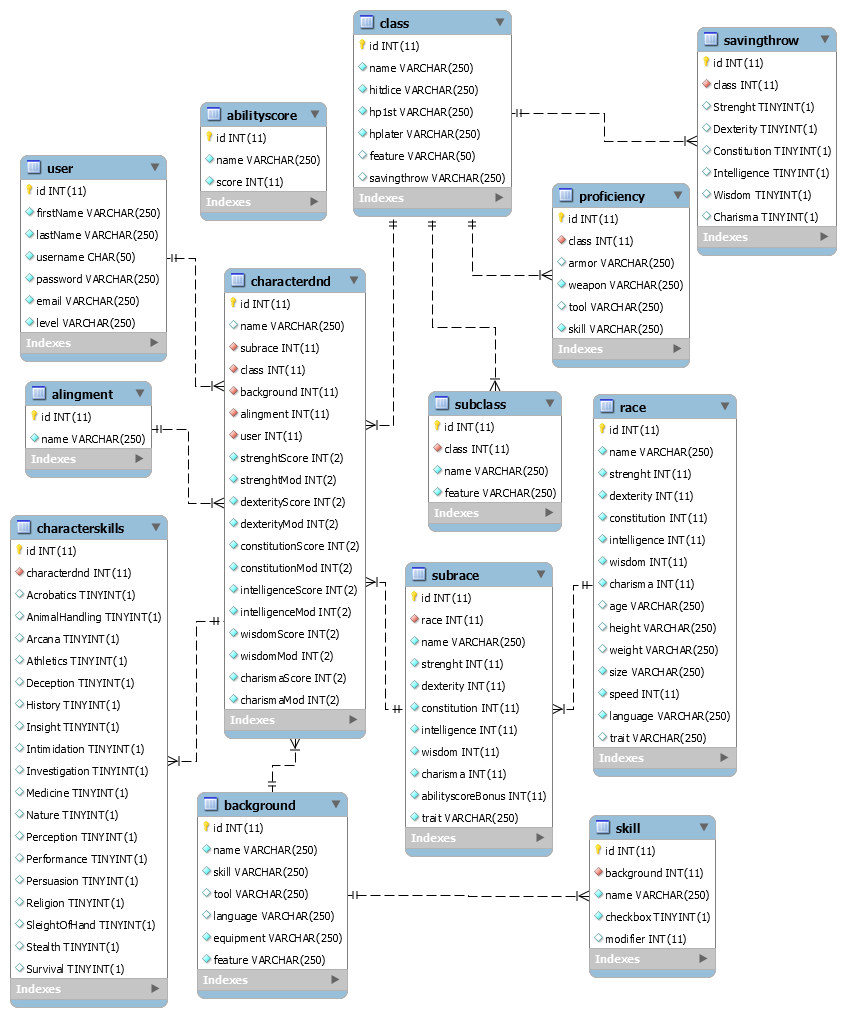
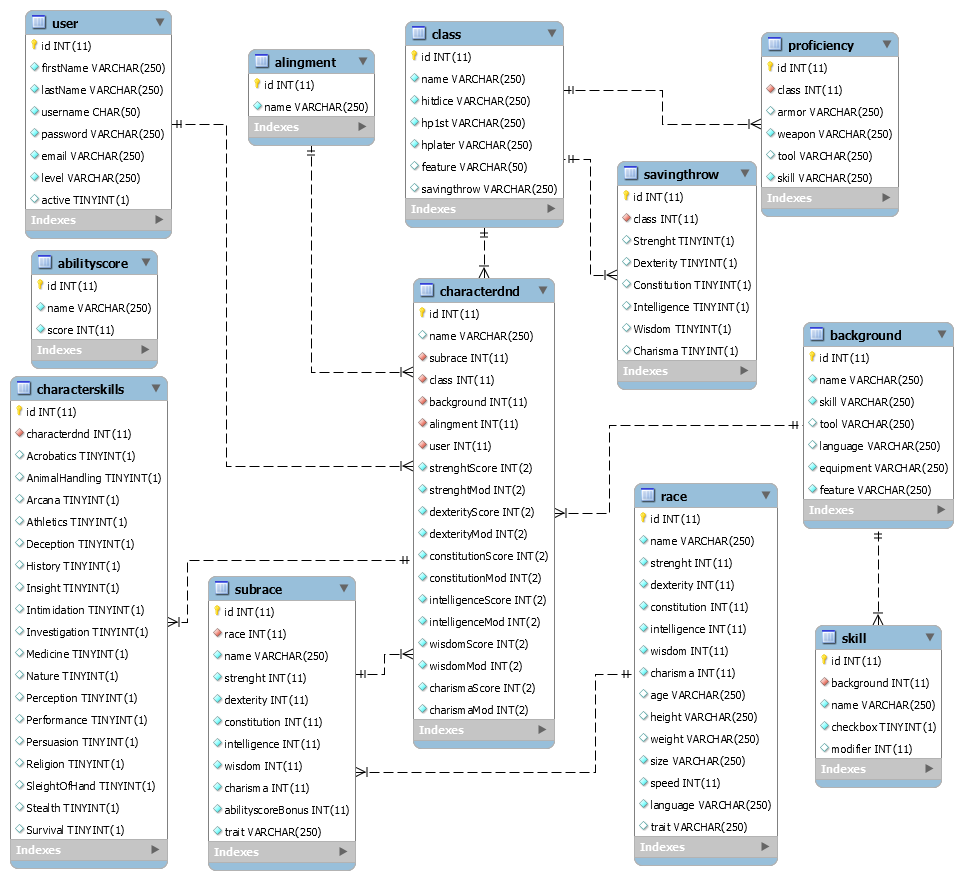
admin controls

diff --git a/private/pages/free.php b/private/pages/free.php
@@ -1,15 +1,18 @@
 <?php
 include_once "../../config.php";
 validation();
+
 ?>
 <!DOCTYPE html>
 <html lang="en">
     <head>
         <?php
 		include_once '../include/head.php';
- ?>
-    	<script src="../js/vendor/fontawesome/fontawesome-all.min.js"></script>
-    </head>
+ ?>   
+ 
+     	
+        <script src="../js/vendor/fontawesome/fontawesome-all.min.js"></script>
+</head>
     <body>
 
         <div id="wrapper">
@@ -58,15 +61,17 @@ validation();
 										?>                                     	
                                             <tr>
                                             	<td><?php echo $option -> id; ?></td>                                           	
-                                                <td><?php echo $option -> username; ?></td>
+                                                <td style="color:<?php echo $option->active==false ? "red" : ""; ?>;"><?php echo $option -> username; ?></td>
                                                 <td><?php echo $option -> email; ?></td>
                                                 <td><?php echo $option -> firstName; ?></td>
                                                 <td><?php echo $option -> lastName; ?></td>
                                                 <td>
-                                                	<a href="#" title="Edit"><i class="far fa-edit"></i></a>
-													<a href="#" title="Delete"><i class="far fa-trash-alt"></i></a>
-													<a href="#" title="Ban"><i class="fas fa-ban" style="color: #b74d4d"></i></a>
- 
+													<a href="delete.php?id=<?php echo $option->id ?>" title="Delete"><i class="far fa-trash-alt 3x"></i></a>
+													<?php if($option->active==true): ?>
+													<a href="ban.php?id=<?php echo $option->id ?>" title="Ban"><i class="fas fa-ban 3x" style="color: #b74d4d"></i></a>
+													<?php else: ?>
+													<a href="activate.php?id=<?php echo $option->id ?>" title="Activate"><i class="fas fa-check 3x" style="color: #00b33c"></i></a>
+ 													<?php endif; ?>
                                                 </td>  
                                             </tr>  
                                         <?php endforeach; ?>  

diff --git a/private/include/navigation.php b/private/include/navigation.php
@@ -49,7 +49,7 @@
                     <li><a href="#"><i class="fa fa-gear fa-fw"></i> Settings</a>
                     </li>
                     <li class="divider"></li>
-                    <li><a href="../logout.php"><i class="fa fa-sign-out fa-fw"></i> Logout</a>
+                    <li><a href="<?php echo $sourceAPP; ?>logout.php"><i class="fa fa-sign-out fa-fw"></i> Logout</a>
                     </li>
                 </ul>
             </li>
@@ -71,7 +71,7 @@
                         </div>
                     </li>
                     <li>
-                        <a href="#" class="active"><i class="fa fa-dashboard fa-fw"></i> Dashboard</a>
+                        <a href="<?php echo "$sourceAPP" . "private/dashboard.php"; ?>" class="active"><i class="fa fa-dashboard fa-fw"></i> Dashboard</a>
                     </li>
                     <li>
                         <a href="#"><i class="fa fa-sitemap fa-fw"></i> Registered Users<span class="fa arrow"></span></a>

diff --git a/include/head.php b/include/head.php
@@ -6,3 +6,8 @@
 <link rel="stylesheet" href="<?php echo $sourceAPP; ?>assets/css/app.css" />
 <!--[if lte IE 8]><link rel="stylesheet" href="assets/css/ie8.css" /><![endif]-->
 <!--[if lte IE 9]><link rel="stylesheet" href="assets/css/ie9.css" /><![endif]-->
+<meta property="og:title" content="<?php echo $nameAPP; ?>" />
+<meta property="og:type" content="application" />
+<meta property="og:url" content="http://zupanc.byethost3.com/RPGcreator/" />
+<meta property="og:image" content="http://zupanc.byethost3.com/RPGcreator/images/logo.png" />
+<meta property="og:description" content="Fifth Edition Dungeons and Dragons character creator." />

diff --git a/private/include/head.php b/private/include/head.php
@@ -23,6 +23,7 @@
 
     <!-- Custom Fonts -->
     <link href="<?php echo "$sourceAPP" . "private/css/font-awesome.min.css"; ?>" rel="stylesheet" type="text/css">
+    
 
     <!-- HTML5 Shim and Respond.js IE8 support of HTML5 elements and media queries -->
     <!-- WARNING: Respond.js doesn't work if you view the page via file:// -->

diff --git a/include/menu.php b/include/menu.php
@@ -1,4 +1,4 @@
-<h1 id="logo"><a href="<?php echo $sourceAPP; ?>"><img src="<?php echo $sourceAPP; ?>/images/headline.png" height="60" /img></a></h1>
+<h1 id="logo"><a href="<?php echo $sourceAPP; ?>"><img src="<?php echo $sourceAPP; ?>images/headline.png" height="60" /img></a></h1>
 <nav id="nav">
 <ul>
 	

diff --git a/private/pages/ban.php b/private/pages/ban.php
@@ -1,0 +1,17 @@
+<?php
+include_once "../../config.php";
+validation();
+
+
+if(!isset($_GET["id"])){
+	
+		header("location: free.php");
+	
+}else{
+		
+		$delete=$connection->prepare("update user set active=false where id=:id;");
+		$delete->execute($_GET);
+		
+		
+		header("location: free.php");
+}

diff --git a/private/pages/activate.php b/private/pages/activate.php
@@ -1,0 +1,17 @@
+<?php
+include_once "../../config.php";
+validation();
+
+
+if(!isset($_GET["id"])){
+	
+		header("location: free.php");
+	
+}else{
+		
+		$delete=$connection->prepare("update user set active=true where id=:id;");
+		$delete->execute($_GET);
+		
+		
+		header("location: free.php");
+}

diff --git a/private/pages/delete.php b/private/pages/delete.php
@@ -1,0 +1,17 @@
+<?php
+include_once "../../config.php";
+validation();
+
+
+if(!isset($_GET["id"])){
+	
+		header("location: free.php");
+	
+}else{
+		
+		$delete=$connection->prepare("delete from user where id=:id;");
+		$delete->execute($_GET);
+		
+		
+		header("location: free.php");
+}

diff --git a/private/pages/gold.php b/private/pages/gold.php
@@ -8,7 +8,8 @@ validation();
         <?php
 		include_once '../include/head.php';
  ?>
-    	<script src="../js/vendor/fontawesome/fontawesome-all.min.js"></script>
+ 
+        <script src="../js/vendor/fontawesome/fontawesome-all.min.js"></script>
     </head>
     <body>
 

diff --git a/private/pages/premium.php b/private/pages/premium.php
@@ -8,7 +8,8 @@ validation();
         <?php
 		include_once '../include/head.php';
  ?>
-    	<script src="../js/vendor/fontawesome/fontawesome-all.min.js"></script>
+ 
+        <script src="../js/vendor/fontawesome/fontawesome-all.min.js"></script>
     </head>
     <body>
 

diff --git a/logout.php b/logout.php
@@ -2,4 +2,4 @@
 
 session_start();
 session_destroy();
-header("location: index.php");
+header("location:" . $sourceaPP . "index.php");
